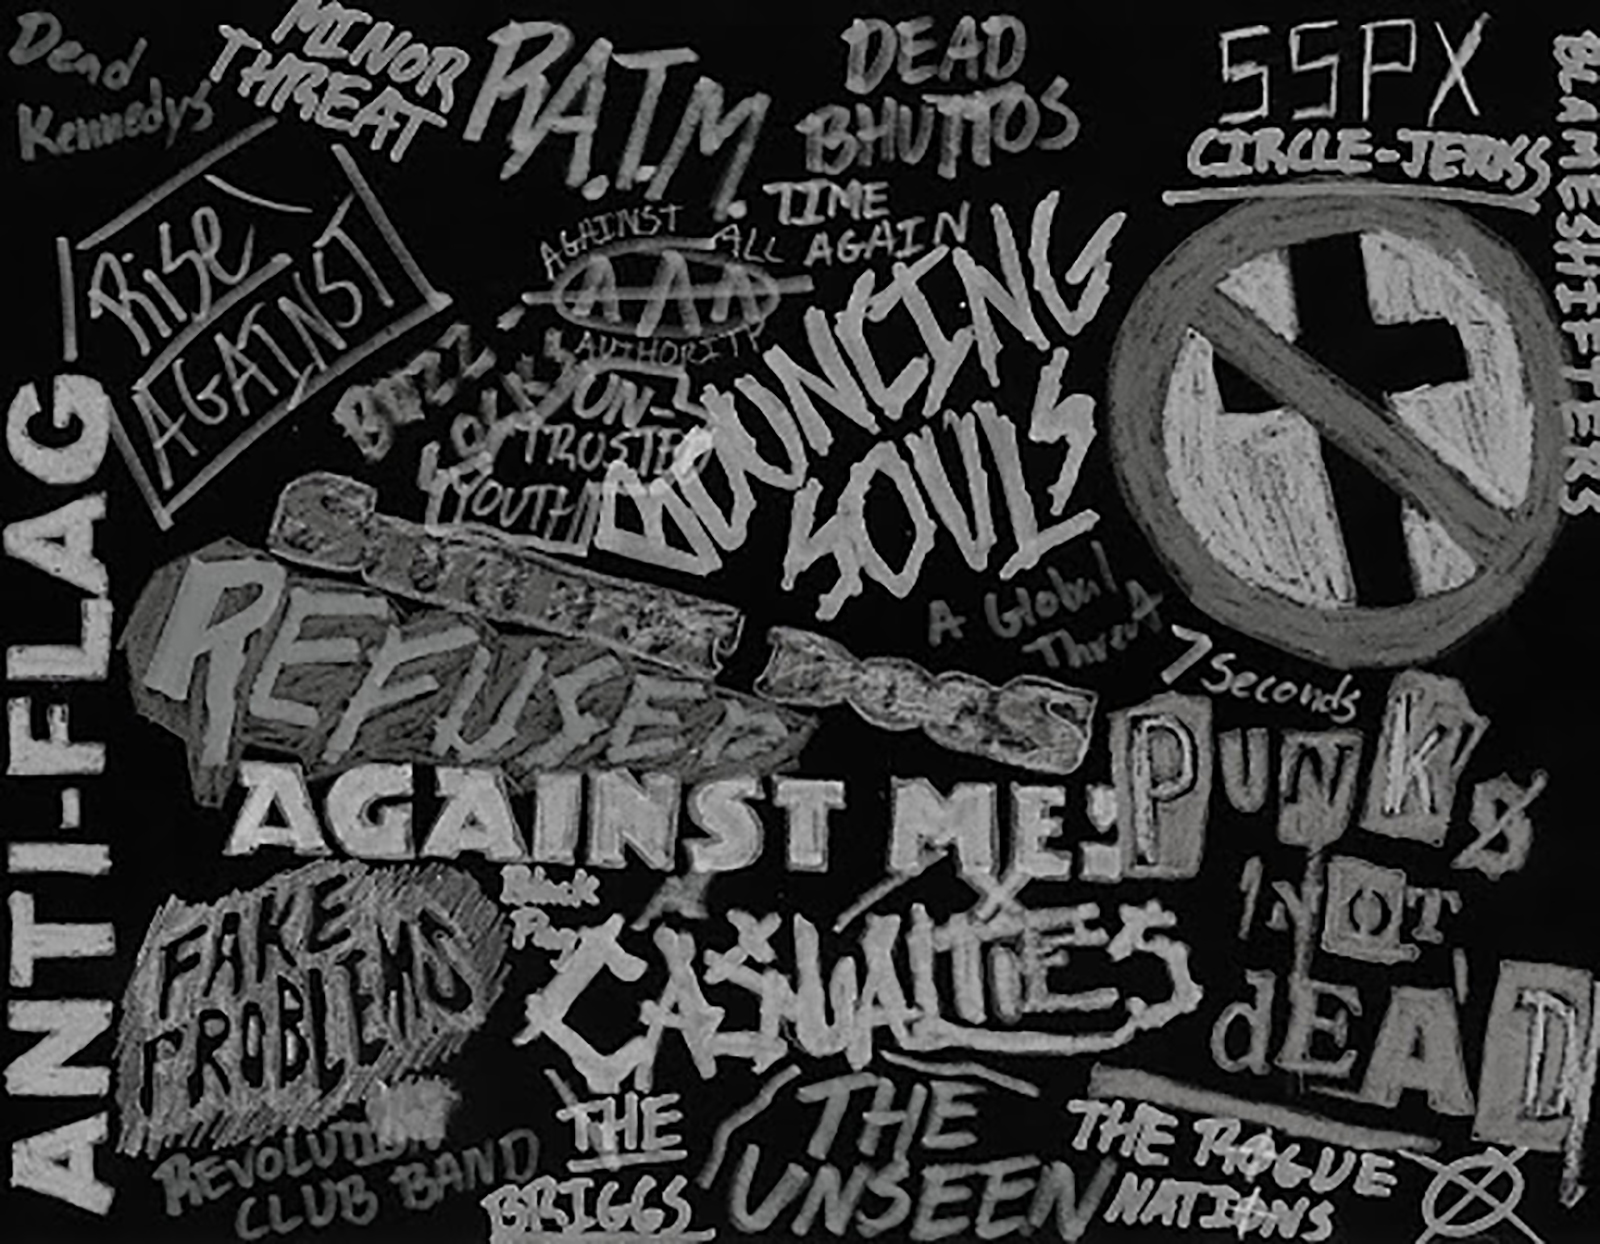
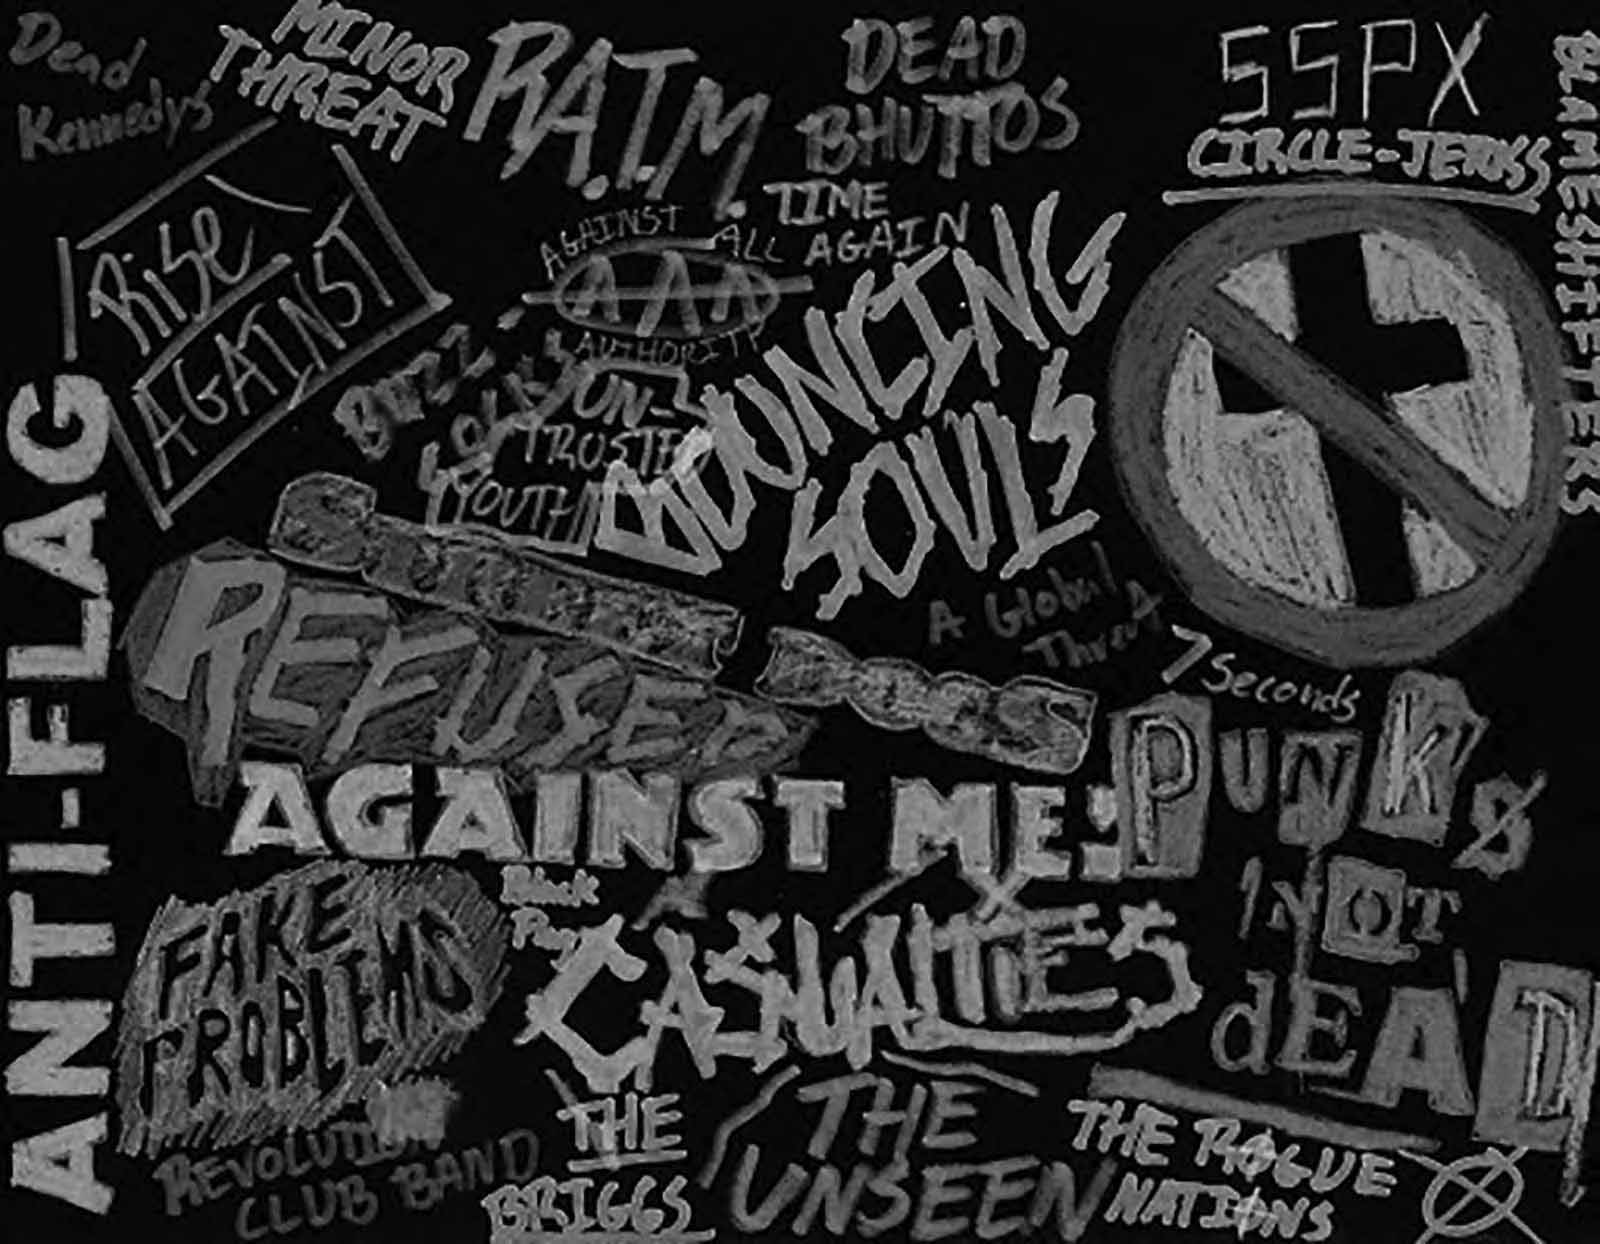
update background image

diff --git a/style.css b/style.css
@@ -6,7 +6,7 @@ input:focus, textarea:focus, select:focus{
     }
 
 body{
-    background-image: url(img/punk_background.min.jpg);
+    background-image: url(img/punk_background.jpg);
     margin: 0 auto;
     max-width: 1200px;
     font-size: 18px;
